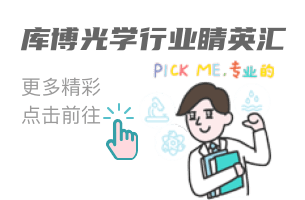
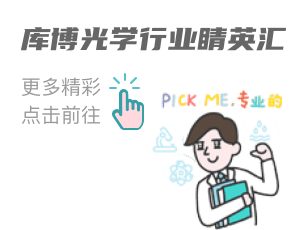
首页样式调整

Changed region(s): [[0.059, 0.3, 0.9443, 1.0], [0.059, 0.09, 0.9443, 0.27]]

diff --git a/src/pages/home.vue b/src/pages/home.vue
@@ -94,10 +94,10 @@ export default {
 <style lang='less' scoped>
 @blue-color : #55B6B3;
 .home {
-  padding: 0.2rem 0.3rem 0.3rem;
+  padding: 0.4rem 0.3rem 0;
   min-height: 100vh;
   .live {
-    margin: 0.2rem 0 .6rem;
+    margin-bottom: .5rem;
     height: 3.2rem;
     background: #EAF2F9;
     .van-swipe {
@@ -111,13 +111,12 @@ export default {
   .fine-class {
     background: rgba(234, 242, 249, 1);
     border-radius: 0.08rem;
-    padding: 0.2rem 0.3rem 0;
+    padding: 0.18rem 0.3rem 0;
     ul {
       font-size: 0;
-      padding-bottom: 0.5rem;
       li {
         width: calc((100% - 0.2rem)/2);
-        margin-top: 0.5rem;
+        margin-top: 0.32rem;
         display: inline-block;
         vertical-align: top;
         &:nth-child(2n) {
@@ -134,45 +133,4 @@ export default {
     }
   }
 }
-
-// .home {
-//   padding: 0 0.3rem;
-//   min-height: 100vh;
-//   .live {
-//     margin-bottom: .4rem;
-//     height: 3.2rem;
-//     background: #EAF2F9;
-//     .van-swipe {
-//       height: 3.2rem;
-//       img {
-//         height: 3.2rem;
-//         width: 6.9rem;
-//       }
-//     }
-//   }
-//   .fine-class {
-//     background: rgba(234, 242, 249, 1);
-//     border-radius: 0.08rem;
-//     padding: 0.2rem 0.3rem 0;
-//     ul {
-//       font-size: 0;
-//       li {
-//         width: calc((100% - 0.2rem)/2);
-//         margin-top: 0.2rem;
-//         display: inline-block;
-//         vertical-align: top;
-//         &:nth-child(2n) {
-//           margin-left: 0.2rem;
-//         }
-//         div {
-//           height: 1.6rem;
-//           background: #fff;
-//         }
-//         img {
-//           width: 100%;
-//         }
-//       }
-//     }
-//   }
-// }
 </style>

diff --git a/src/components/top-logo.vue b/src/components/top-logo.vue
@@ -14,7 +14,7 @@ export default {}
 .top {
   box-sizing: content-box;
   height: 0.8rem;
-  padding: 0.3rem 0;
+  padding: 0.5rem 0;
   img {
     height: auto;
     &.logo {
